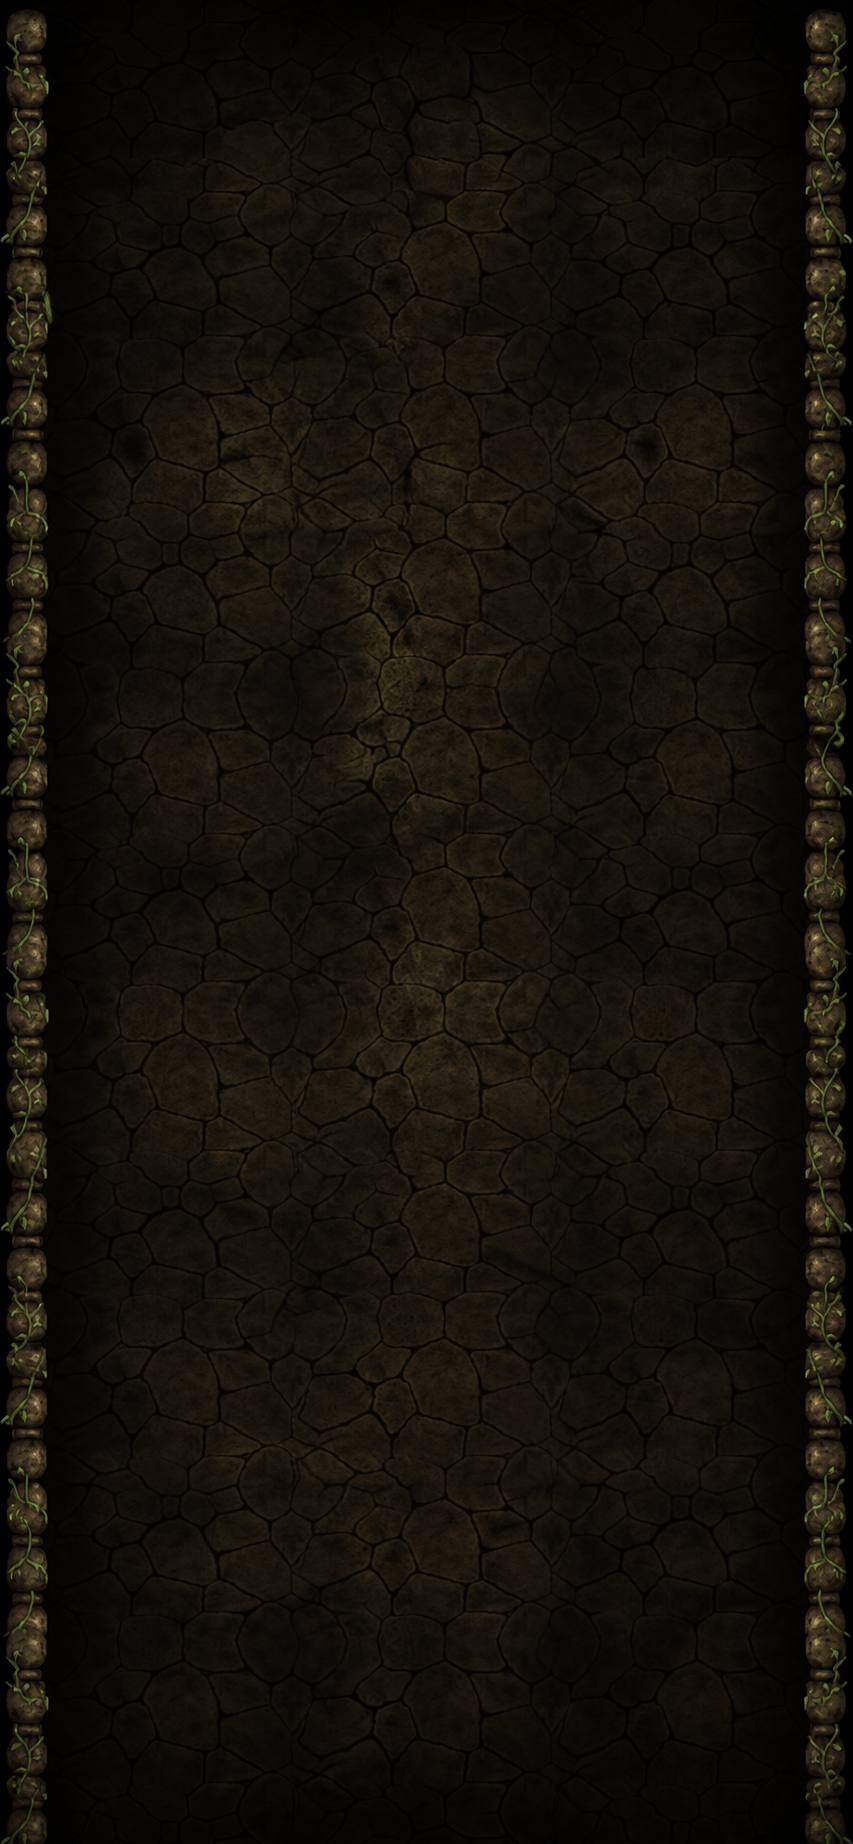
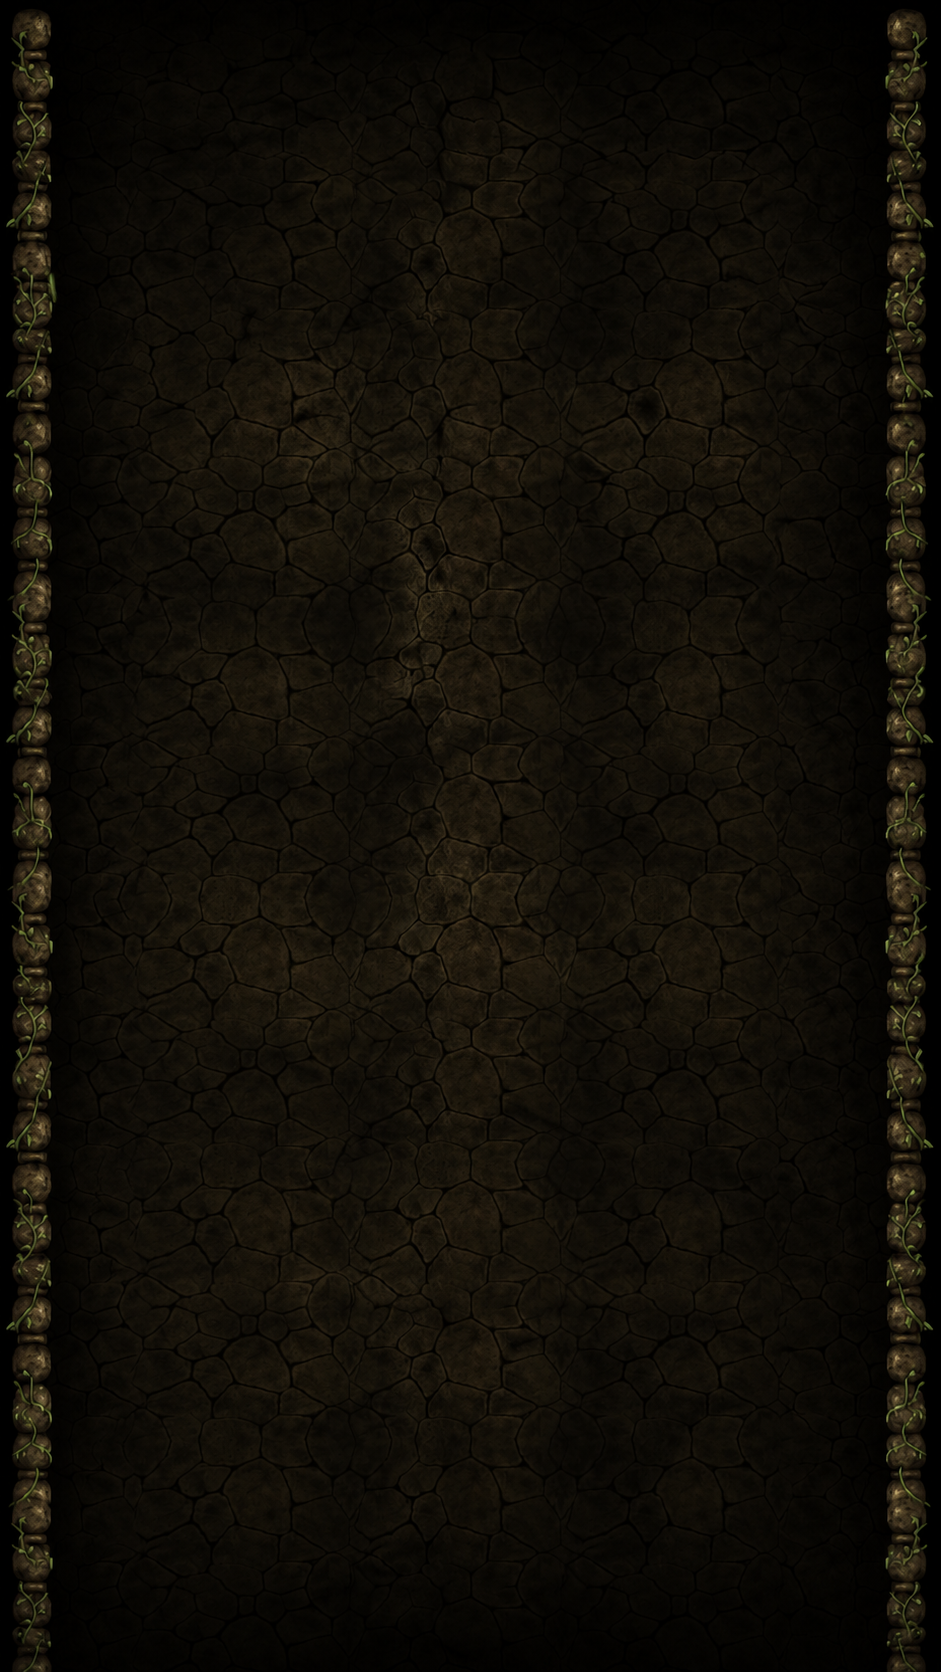
Fix iOS background tiling seam line and constrain all elements inside card-bg.png rivets v2.61

diff --git a/src/pages/OSRS.tsx b/src/pages/OSRS.tsx
@@ -364,6 +364,9 @@ export default function OSRS() {
 
   return (
     <div className="min-h-screen text-slate-100 font-sans flex flex-col selection:bg-amber-500 selection:text-slate-950 relative">
+      {/* Fixed Seamless Background Layer */}
+      <div id="osrs-bg-fixed" />
+
       {/* Header with iOS Safe Area Notch Padding */}
       <header
         className="bg-black border-b border-amber-900/60 sticky top-0 z-20 px-4 md:px-8 shadow-2xl transition-all"
@@ -448,17 +451,17 @@ export default function OSRS() {
 
           {/* CARD 1: BIRD RUNS */}
           <div 
-            className="transition-all px-12 py-8 sm:px-14 sm:py-9 flex flex-col justify-between shadow-[0_10px_35px_rgba(0,0,0,0.9)] relative overflow-hidden group bg-no-repeat rounded-2xl"
+            className="transition-all px-4 py-8 sm:px-8 sm:py-9 flex flex-col justify-between shadow-[0_10px_35px_rgba(0,0,0,0.9)] relative overflow-hidden group bg-no-repeat rounded-2xl"
             style={{ 
               backgroundImage: "url('/card-bg.png')",
               backgroundSize: "100% 100%",
               backgroundPosition: "center"
             }}
           >
-            <div className="space-y-3">
+            <div className="space-y-3 max-w-[200px] sm:max-w-[220px] mx-auto w-full">
               <div className="flex items-center justify-between">
                 <div className="flex items-center gap-2">
-                  <div className="w-9 h-9 rounded-xl bg-amber-500/20 border border-amber-500/40 flex items-center justify-center text-amber-400 text-lg shadow-inner shrink-0 overflow-hidden relative">
+                  <div className="w-8 h-8 rounded-lg bg-amber-500/20 border border-amber-500/40 flex items-center justify-center text-amber-400 text-lg shadow-inner shrink-0 overflow-hidden relative">
                     <img 
                       src="/birdhouse-logo.png" 
                       alt="Bird House" 
@@ -472,31 +475,31 @@ export default function OSRS() {
                     <span className="hidden">🐥</span>
                   </div>
                   <div>
-                    <h3 className="text-base sm:text-lg font-bold text-amber-100 group-hover:text-yellow-300 transition-colors font-['MedievalSharp',serif] tracking-wider drop-shadow-md">
+                    <h3 className="text-sm sm:text-base font-bold text-amber-100 group-hover:text-yellow-300 transition-colors font-['MedievalSharp',serif] tracking-wider drop-shadow-md">
                       Bird Houses
                     </h3>
-                    <p className="text-[10px] text-amber-300/80 font-semibold">Timer de 50 minutos</p>
+                    <p className="text-[9px] text-amber-300/80 font-semibold">Timer de 50m</p>
                   </div>
                 </div>
                 {birdTarget && birdTimeLeft === 0 && (
-                  <span className="px-2 py-0.5 bg-emerald-500/20 border border-emerald-500/40 text-emerald-300 text-[11px] font-extrabold rounded-full animate-bounce font-['MedievalSharp',serif]">
+                  <span className="px-1.5 py-0.5 bg-emerald-500/20 border border-emerald-500/40 text-emerald-300 text-[10px] font-extrabold rounded-full animate-bounce font-['MedievalSharp',serif]">
                     ¡LISTO!
                   </span>
                 )}
               </div>
 
               {/* Timer Display */}
-              <div className="bg-black/80 rounded-xl px-3 py-3 border border-amber-500/40 text-center relative overflow-hidden shadow-[inset_0_2px_8px_rgba(0,0,0,0.9)] mx-auto w-full max-w-[260px]">
+              <div className="bg-black/80 rounded-xl px-2.5 py-3 border border-amber-500/40 text-center relative overflow-hidden shadow-[inset_0_2px_8px_rgba(0,0,0,0.9)] w-full">
                 <div className="text-2xl sm:text-3xl font-black font-mono tracking-widest text-amber-400 drop-shadow-[0_2px_6px_rgba(0,0,0,0.9)]">
                   {birdTarget ? formatTime(birdTimeLeft) : '50:00'}
                 </div>
-                <div className="text-[10px] text-amber-100/90 mt-1 flex flex-col items-center gap-0.5 font-medium">
+                <div className="text-[9px] text-amber-100/90 mt-1 flex flex-col items-center gap-0.5 font-medium">
                   <div className="flex items-center gap-1">
-                    <Clock className="w-3 h-3 text-amber-400" />
+                    <Clock className="w-2.5 h-2.5 text-amber-400" />
                     {birdTarget ? (birdTimeLeft > 0 ? `Termina: ${formatClockTime(birdTarget)}` : '¡Listo!') : 'Timer inactivo'}
                   </div>
                   {lastBirdCompleted && (
-                    <span className="text-[9px] text-amber-300 font-mono">
+                    <span className="text-[8px] text-amber-300 font-mono">
                       Última: {formatClockTime(lastBirdCompleted)}
                     </span>
                   )}
@@ -513,19 +516,19 @@ export default function OSRS() {
             </div>
 
             {/* Action Buttons */}
-            <div className="space-y-1.5 mt-3 max-w-[260px] mx-auto w-full">
+            <div className="space-y-1 mt-3 max-w-[200px] sm:max-w-[220px] mx-auto w-full">
               <button
                 onClick={handleStartBird}
-                className="w-full py-2.5 bg-gradient-to-r from-amber-600 via-amber-500 to-yellow-500 hover:from-amber-500 hover:to-yellow-400 active:scale-[0.98] text-slate-950 font-black text-xs sm:text-sm rounded-xl shadow-[0_3px_12px_rgba(245,158,11,0.4)] border border-amber-300/80 transition-all flex items-center justify-center gap-1.5 cursor-pointer font-['MedievalSharp',serif] tracking-wide"
+                className="w-full py-2 bg-gradient-to-r from-amber-600 via-amber-500 to-yellow-500 hover:from-amber-500 hover:to-yellow-400 active:scale-[0.98] text-slate-950 font-black text-xs rounded-xl shadow-[0_3px_12px_rgba(245,158,11,0.4)] border border-amber-300/80 transition-all flex items-center justify-center gap-1 cursor-pointer font-['MedievalSharp',serif] tracking-wide"
               >
                 {birdTarget ? (
                   <>
-                    <RotateCcw className="w-3.5 h-3.5" />
+                    <RotateCcw className="w-3 h-3" />
                     Completar & Reiniciar (50m)
                   </>
                 ) : (
                   <>
-                    <Play className="w-3.5 h-3.5 fill-slate-950" />
+                    <Play className="w-3 h-3 fill-slate-950" />
                     Iniciar Bird Run (50m)
                   </>
                 )}
@@ -534,7 +537,7 @@ export default function OSRS() {
               {birdTarget && (
                 <button
                   onClick={handleStopBird}
-                  className="w-full py-1 bg-black/70 hover:bg-black/90 text-amber-200/80 hover:text-red-400 font-semibold text-[10px] rounded-lg transition-all border border-amber-500/30 cursor-pointer font-['MedievalSharp',serif]"
+                  className="w-full py-1 bg-black/70 hover:bg-black/90 text-amber-200/80 hover:text-red-400 font-semibold text-[9px] rounded-lg transition-all border border-amber-500/30 cursor-pointer font-['MedievalSharp',serif]"
                 >
                   Detener Timer
                 </button>
@@ -544,17 +547,17 @@ export default function OSRS() {
 
           {/* CARD 2: HERB RUNS */}
           <div 
-            className="transition-all px-12 py-8 sm:px-14 sm:py-9 flex flex-col justify-between shadow-[0_10px_35px_rgba(0,0,0,0.9)] relative overflow-hidden group bg-no-repeat rounded-2xl"
+            className="transition-all px-4 py-8 sm:px-8 sm:py-9 flex flex-col justify-between shadow-[0_10px_35px_rgba(0,0,0,0.9)] relative overflow-hidden group bg-no-repeat rounded-2xl"
             style={{ 
               backgroundImage: "url('/card-bg.png')",
               backgroundSize: "100% 100%",
               backgroundPosition: "center"
             }}
           >
-            <div className="space-y-3">
+            <div className="space-y-3 max-w-[200px] sm:max-w-[220px] mx-auto w-full">
               <div className="flex items-center justify-between">
                 <div className="flex items-center gap-2">
-                  <div className="w-9 h-9 rounded-xl bg-emerald-500/20 border border-emerald-500/40 flex items-center justify-center text-emerald-400 text-lg shadow-inner shrink-0 overflow-hidden relative">
+                  <div className="w-8 h-8 rounded-lg bg-emerald-500/20 border border-emerald-500/40 flex items-center justify-center text-emerald-400 text-lg shadow-inner shrink-0 overflow-hidden relative">
                     <img 
                       src="/herb-logo.png" 
                       alt="Herb Run" 
@@ -568,31 +571,31 @@ export default function OSRS() {
                     <span className="hidden">🌿</span>
                   </div>
                   <div>
-                    <h3 className="text-base sm:text-lg font-bold text-emerald-100 group-hover:text-green-300 transition-colors font-['MedievalSharp',serif] tracking-wider drop-shadow-md">
+                    <h3 className="text-sm sm:text-base font-bold text-emerald-100 group-hover:text-green-300 transition-colors font-['MedievalSharp',serif] tracking-wider drop-shadow-md">
                       Herb Runs
                     </h3>
-                    <p className="text-[10px] text-emerald-300/80 font-semibold">Timer de 80 minutos</p>
+                    <p className="text-[9px] text-emerald-300/80 font-semibold">Timer de 80m</p>
                   </div>
                 </div>
                 {herbTarget && herbTimeLeft === 0 && (
-                  <span className="px-2 py-0.5 bg-emerald-500/20 border border-emerald-500/40 text-emerald-300 text-[11px] font-extrabold rounded-full animate-bounce font-['MedievalSharp',serif]">
+                  <span className="px-1.5 py-0.5 bg-emerald-500/20 border border-emerald-500/40 text-emerald-300 text-[10px] font-extrabold rounded-full animate-bounce font-['MedievalSharp',serif]">
                     ¡LISTO!
                   </span>
                 )}
               </div>
 
               {/* Timer Display */}
-              <div className="bg-black/80 rounded-xl px-3 py-3 border border-emerald-500/40 text-center relative overflow-hidden shadow-[inset_0_2px_8px_rgba(0,0,0,0.9)] mx-auto w-full max-w-[260px]">
+              <div className="bg-black/80 rounded-xl px-2.5 py-3 border border-emerald-500/40 text-center relative overflow-hidden shadow-[inset_0_2px_8px_rgba(0,0,0,0.9)] w-full">
                 <div className="text-2xl sm:text-3xl font-black font-mono tracking-widest text-emerald-400 drop-shadow-[0_2px_6px_rgba(0,0,0,0.9)]">
                   {herbTarget ? formatTime(herbTimeLeft) : '1h 20m'}
                 </div>
-                <div className="text-[10px] text-emerald-100/90 mt-1 flex flex-col items-center gap-0.5 font-medium">
+                <div className="text-[9px] text-emerald-100/90 mt-1 flex flex-col items-center gap-0.5 font-medium">
                   <div className="flex items-center gap-1">
-                    <Clock className="w-3 h-3 text-emerald-400" />
+                    <Clock className="w-2.5 h-2.5 text-emerald-400" />
                     {herbTarget ? (herbTimeLeft > 0 ? `Termina: ${formatClockTime(herbTarget)}` : '¡Listo!') : 'Timer inactivo'}
                   </div>
                   {lastHerbCompleted && (
-                    <span className="text-[9px] text-emerald-300 font-mono">
+                    <span className="text-[8px] text-emerald-300 font-mono">
                       Última: {formatClockTime(lastHerbCompleted)}
                     </span>
                   )}
@@ -609,19 +612,19 @@ export default function OSRS() {
             </div>
 
             {/* Action Buttons */}
-            <div className="space-y-1.5 mt-3 max-w-[260px] mx-auto w-full">
+            <div className="space-y-1 mt-3 max-w-[200px] sm:max-w-[220px] mx-auto w-full">
               <button
                 onClick={handleStartHerb}
-                className="w-full py-2.5 bg-gradient-to-r from-emerald-600 via-emerald-500 to-green-500 hover:from-emerald-500 hover:to-green-400 active:scale-[0.98] text-slate-950 font-black text-xs sm:text-sm rounded-xl shadow-[0_3px_12px_rgba(16,185,129,0.4)] border border-emerald-300/80 transition-all flex items-center justify-center gap-1.5 cursor-pointer font-['MedievalSharp',serif] tracking-wide"
+                className="w-full py-2 bg-gradient-to-r from-emerald-600 via-emerald-500 to-green-500 hover:from-emerald-500 hover:to-green-400 active:scale-[0.98] text-slate-950 font-black text-xs rounded-xl shadow-[0_3px_12px_rgba(16,185,129,0.4)] border border-emerald-300/80 transition-all flex items-center justify-center gap-1 cursor-pointer font-['MedievalSharp',serif] tracking-wide"
               >
                 {herbTarget ? (
                   <>
-                    <RotateCcw className="w-3.5 h-3.5" />
+                    <RotateCcw className="w-3 h-3" />
                     Completar & Reiniciar (80m)
                   </>
                 ) : (
                   <>
-                    <Play className="w-3.5 h-3.5 fill-slate-950" />
+                    <Play className="w-3 h-3 fill-slate-950" />
                     Iniciar Herb Run (80m)
                   </>
                 )}
@@ -630,7 +633,7 @@ export default function OSRS() {
               {herbTarget && (
                 <button
                   onClick={handleStopHerb}
-                  className="w-full py-1 bg-black/70 hover:bg-black/90 text-emerald-200/80 hover:text-red-400 font-semibold text-[10px] rounded-lg transition-all border border-emerald-500/30 cursor-pointer font-['MedievalSharp',serif]"
+                  className="w-full py-1 bg-black/70 hover:bg-black/90 text-emerald-200/80 hover:text-red-400 font-semibold text-[9px] rounded-lg transition-all border border-emerald-500/30 cursor-pointer font-['MedievalSharp',serif]"
                 >
                   Detener Timer
                 </button>

diff --git a/src/index.css b/src/index.css
@@ -48,9 +48,18 @@
 
 html, body {
   background-color: #000000;
+  color-scheme: dark;
+  margin: 0;
+  padding: 0;
+}
+
+#osrs-bg-fixed {
+  position: fixed;
+  inset: 0;
   background-image: url('/osrs-bg.png');
   background-size: 100% 100%;
   background-position: center;
-  background-attachment: fixed;
-  color-scheme: dark;
+  background-repeat: no-repeat;
+  z-index: 0;
+  pointer-events: none;
 }

diff --git a/src/utils/version.ts b/src/utils/version.ts
@@ -1,2 +1,2 @@
-export const APP_VERSION = 'v2.60';
+export const APP_VERSION = 'v2.61';
 